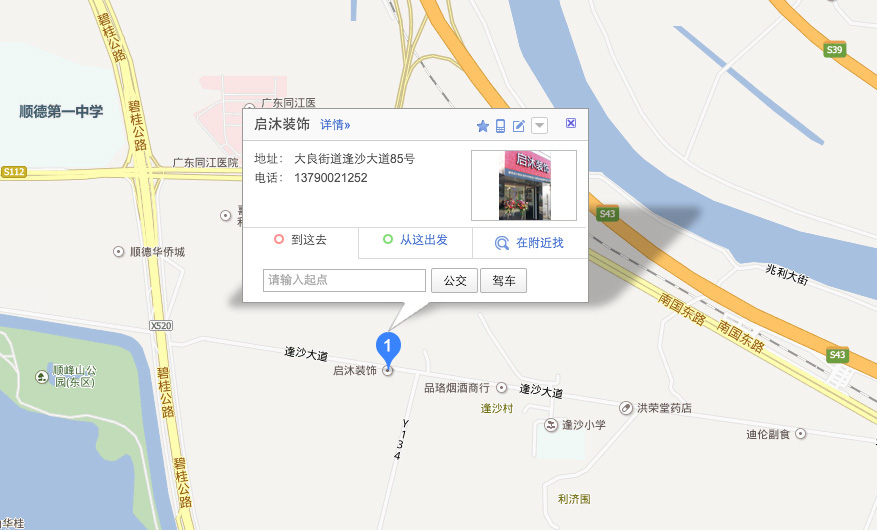
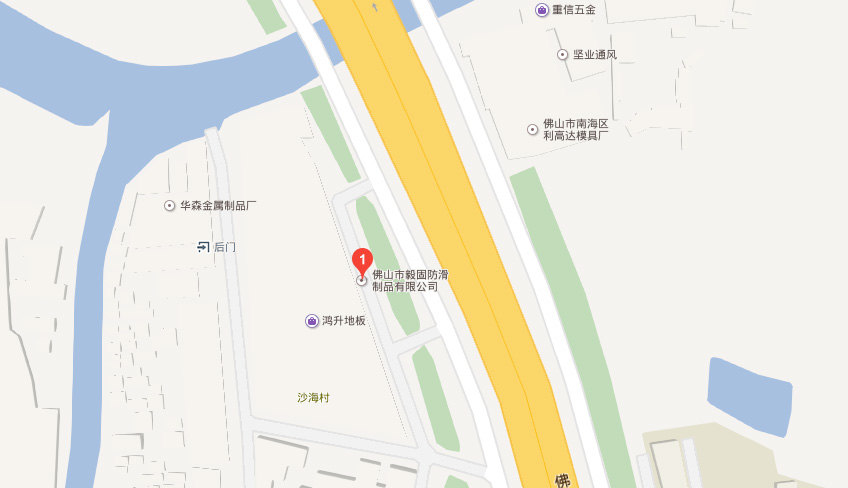
up

diff --git a/pages/contact.html b/pages/contact.html
@@ -11,7 +11,7 @@ title: 联系我们
     <p><i class="fa fa-fax pr-10"></i>{{ site.fax }}</p>
     <p><i class="fa fa-qq pr-10"></i><a href="http://wpa.qq.com/msgrd?v=3&uin={{ site.qq }}&site=qq&menu=yes">{{ site.qq }}</a></p>    
     <p><i class="fa fa-envelope-o pr-10"></i><a href="mailto:{{ site.email }}">{{ site.email }}</a></p>
-    <p align="center"><a href="" target="_blank"><img src="/images/contact/map1.jpg" alt="毅固百度地图"></a></p>
-    <p align="center"><a href="" target="_blank" class="btn btn-default btn-hvr hvr-shutter-out-horizontal margin-clear">动态地图和GPS导航系统</a></p>
+    <p align="center"><a href="http://j.map.baidu.com/wxqcO" target="_blank"><img class="img-responsive" src="/images/contact/map.jpg" alt="毅固百度地图"></a></p>
+    <p align="center"><a href="http://j.map.baidu.com/wxqcO" target="_blank" class="btn btn-default btn-hvr hvr-shutter-out-horizontal margin-clear">动态地图和GPS导航系统</a></p>
   </div>
 </div>
